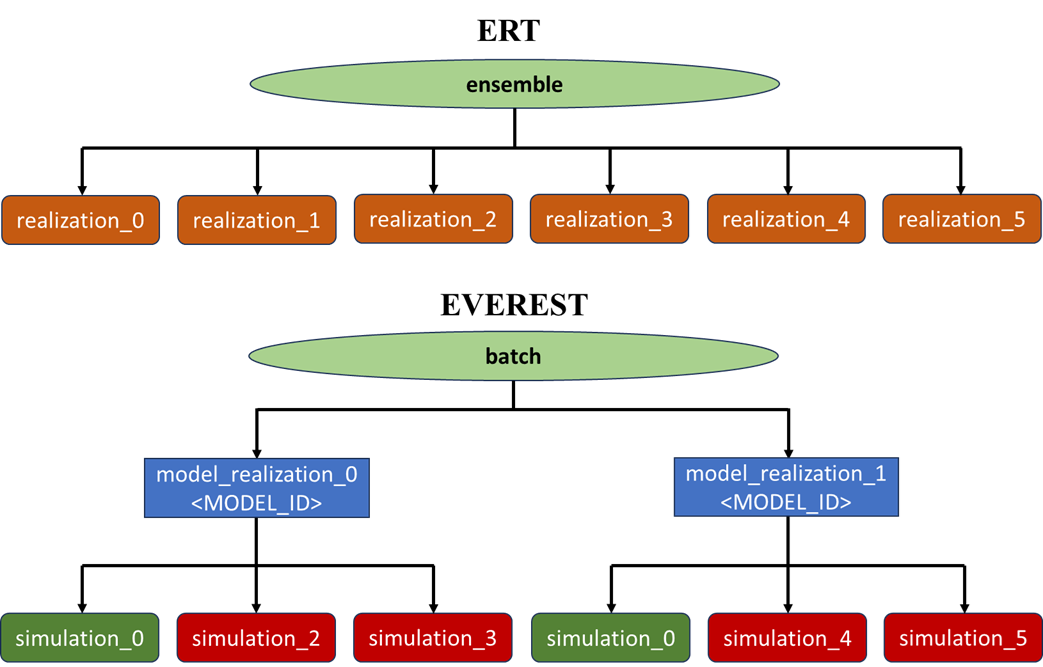
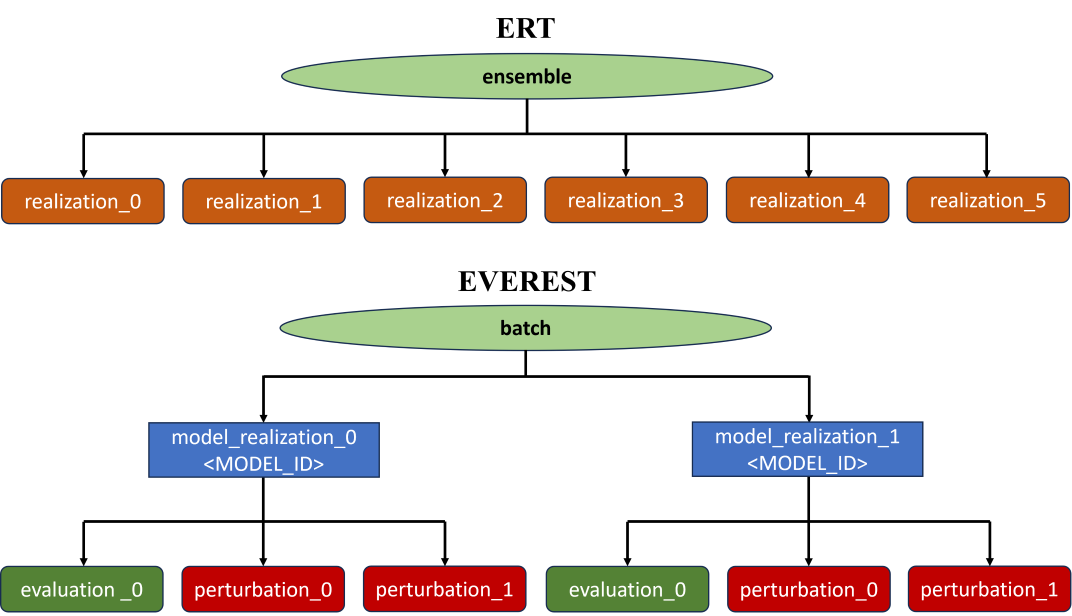
Update the development docs

diff --git a/docs/everest/development.rst b/docs/everest/development.rst
@@ -58,23 +58,36 @@ long as the optimization process is running.
 
 EVEREST vs. ERT data models
 ===========================
-EVEREST uses ERT for running an `experiment`. An `experiment` contains several `batches` (i.e., `ensembles`).
-An `ensemble` / `batch` contains inputs & computed outputs for several `realizations`, denoted as `simulations` in EVEREST.
-EVEREST `controls` are mapped to ERT `parameters` and serve as input to each forward model evaluation.
-ERT generates `responses` for each forward model evaluation in the `batch`.
-ERT writes these `responses` to storage in the `simulation_results` folder (per `batch` and per `realization`).
-These `responses` are mapped to `objectives` and `constraints` in EVEREST and forwarded to `ropt` (i.e., the optimizer).
-To summarize, every forward model evaluation for a single set of inputs/parameters (`controls`) and generated outputs/responses (`objectives` / `constraints`)
-constitutes an ERT `realization` (`simulation` in EVEREST).
+EVEREST uses ERT for running an `experiment`. An `experiment` contains several
+`batches`, which are implemented by ERT `ensembles`. A `batch` contains inputs &
+computed outputs for several model realizations, each of which may contain
+multiple `simulations` that correspond to either function evaluations, or to
+perturbations. Each of these correspond to a single forward model evaluation
+implemented as an ERT `realization`. EVEREST `controls` are mapped to ERT
+`parameters` and serve as input to each forward model evaluation. ERT generates
+`responses` for each forward model evaluation in the `batch`. ERT writes these
+`responses` to storage in the `simulation_results` folder (per `batch` and per
+`realization`). These `responses` are mapped to `objectives` and `constraints`
+in EVEREST and forwarded to `ropt` (i.e., the optimizer). To summarize, every
+forward model evaluation for a single set of inputs/parameters (`controls`) and
+generated outputs/responses (`objectives` / `constraints`) constitutes an ERT
+`realization` (a `simulation` in EVEREST).
 
-For `controls` in EVEREST, there is a distinction between `unperturbed controls` (i.e., `controls` of the current best solution
-yielding the best objective function value(s), see also :ref:`opt-process-label`) and
-`perturbed controls` (i.e., required to calculate the `gradient`). Furthermore, when performing robust optimization a `batch` contains
-multiple `model_realizations` (denoted by `<MODEL_ID>`). A `model_realization` is a set of `static` variables (i.e., not changing
-during the optimization) which affect the response of the underlying optimized model (NOTE: `model_realization` is not the same as an
-ERT `realization`; see also :ref:`robust-optimization-label`). Each `model_realization` can contain several `simulations`
-(i.e., forward model runs). This is the key difference between the hierarchical data model of EVEREST and ERT (Fig 3).
-NOTE: `<MODEL_ID>` (or `<GEO_ID>` due to legacy reasons) is inserted (and substituted) in the `run_path` for each `model_realization`.
+In EVEREST, there is a distinction between function `evaluations` and
+`perturbations`. The former are requested directly by the optimizer during
+optimization, while the latter are used to calculate the gradients, which are
+also needed by the optimizer. (see also :ref:`opt-process-label`). Furthermore,
+when performing robust optimization a `batch` contains multiple
+`model_realizations` (denoted by `<MODEL_ID>`). A `model_realization` is a set
+of `static` variables (i.e., not changing during the optimization) which affect
+the response of the underlying optimized model (NOTE: `model_realization` is not
+the same as an ERT `realization`; see also :ref:`robust-optimization-label`).
+Each `model_realization` can contain several `simulations` (i.e., forward model
+runs). This is the key difference between the hierarchical data model of EVEREST
+and ERT (Fig 3).
+
+NOTE: `<MODEL_ID>` (or `<GEO_ID>` due to legacy reasons) is
+inserted (and substituted) in the `run_path` for each `model_realization`.
 
 .. figure:: images/Everest_vs_Ert_01.png
     :align: center
